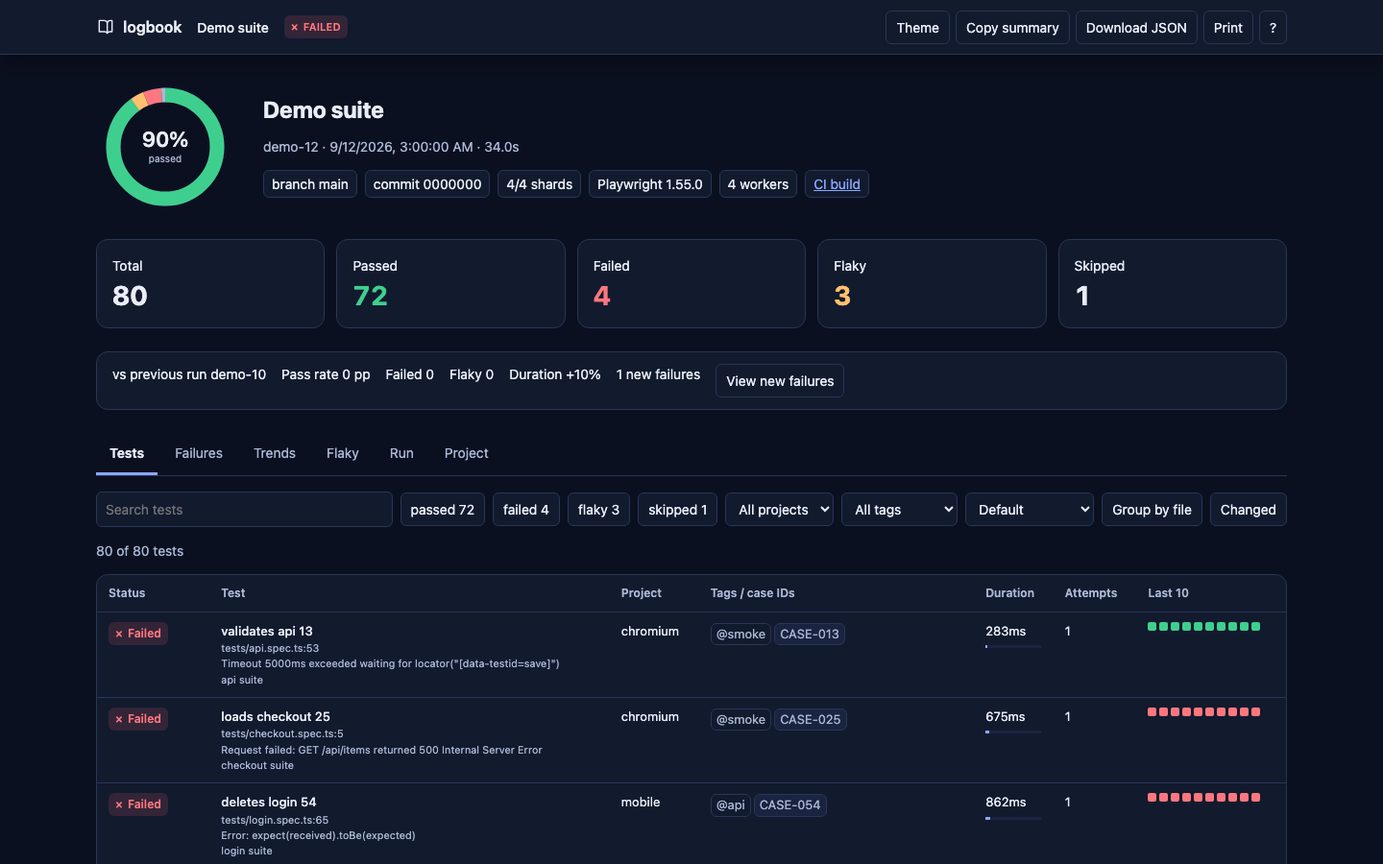
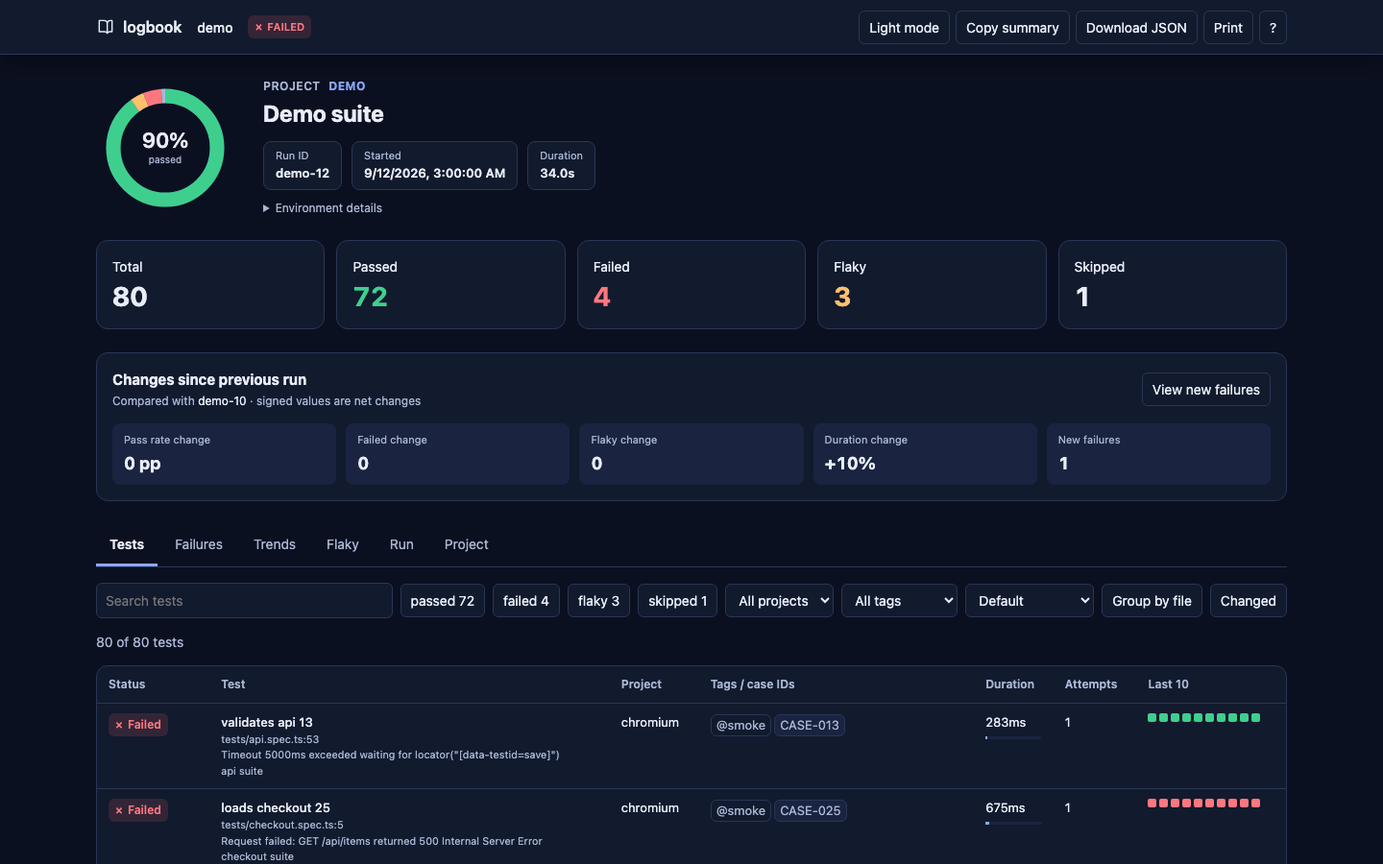
fix(report): clarify overview and pagination UX

diff --git a/src/template/css.ts b/src/template/css.ts
@@ -1,7 +1,6 @@
 import { tokensToCss } from './tokens.js';
 
 export const REPORT_CSS = `:root{${tokensToCss('light')}font-family:system-ui,-apple-system,"Segoe UI",Roboto,Arial,sans-serif;color-scheme:light}
-@media(prefers-color-scheme:dark){:root:not([data-theme="light"]){${tokensToCss('dark')}color-scheme:dark}}
 :root[data-theme="dark"]{${tokensToCss('dark')}color-scheme:dark}
 :root[data-theme="light"]{${tokensToCss('light')}color-scheme:light}
 *{box-sizing:border-box}body{margin:0;background:var(--bg);color:var(--text);font-size:14px;line-height:1.5}button,input,select{font:inherit}button{cursor:pointer}a{color:var(--accent)}:focus-visible{outline:2px solid var(--accent);outline-offset:2px}.skip-link{position:absolute;top:-80px;left:12px;z-index:30;background:var(--surface);padding:8px}.skip-link:focus{top:12px}.topbar{position:sticky;top:0;z-index:20;background:var(--surface);border-bottom:1px solid var(--border);box-shadow:var(--shadow)}.topbar-inner{max-width:1280px;margin:auto;padding:8px 20px;display:flex;align-items:center;gap:16px;min-height:56px}.wordmark{display:flex;align-items:center;gap:8px;font-size:16px;font-weight:600;color:var(--text);text-decoration:none}.wordmark svg,.icon{width:20px;height:20px;fill:none;stroke:currentColor;stroke-width:1.7;stroke-linecap:round;stroke-linejoin:round}.topbar-title{min-width:0;overflow:hidden;text-overflow:ellipsis;white-space:nowrap;font-weight:500}.topbar-actions{margin-left:auto;display:flex;gap:6px}.button,.topbar-actions button,.chip-button{border:1px solid var(--border);background:var(--surface);color:var(--text);border-radius:6px;padding:6px 10px;display:inline-flex;align-items:center;gap:5px}.button:hover,.topbar-actions button:hover,.chip-button:hover{background:var(--surface-2)}.container{max-width:1280px;margin:auto;padding:24px 20px 48px}.hero{display:grid;grid-template-columns:150px minmax(0,1fr);gap:24px;align-items:center}.donut{width:144px;height:144px}.donut-track{stroke:var(--border)}.donut-center{font-size:22px;font-weight:600;fill:var(--text)}.donut-label{font-size:10px;fill:var(--muted)}h1{font-size:24px;line-height:1.2;margin:0 0 8px}h2{font-size:20px;margin:0 0 14px}h3{font-size:16px;margin:20px 0 8px}.muted,small{color:var(--muted)}.meta{display:flex;gap:8px;flex-wrap:wrap;margin-top:12px}.meta>*{border:1px solid var(--border);background:var(--surface);border-radius:6px;padding:3px 8px}.cards{display:grid;grid-template-columns:repeat(5,minmax(0,1fr));gap:12px;margin:24px 0}.card{border:1px solid var(--border);border-radius:12px;background:var(--surface);padding:16px;text-align:left;color:var(--text)}.card strong{display:block;font-size:28px;line-height:1.2;margin-top:4px;font-variant-numeric:tabular-nums}.card[data-kind="passed"] strong{color:var(--passed)}.card[data-kind="failed"] strong{color:var(--failed)}.card[data-kind="flaky"] strong{color:var(--flaky)}.delta,.banner,.notice{border:1px solid var(--border);background:var(--surface);border-radius:12px;padding:12px 16px;margin:12px 0}.banner{border-color:var(--flaky);color:var(--text)}.delta{display:flex;gap:16px;flex-wrap:wrap}.delta span{white-space:nowrap}.tabs{display:flex;gap:4px;overflow-x:auto;border-bottom:1px solid var(--border);margin:24px 0 16px}.tabs button{background:none;border:0;border-bottom:3px solid transparent;color:var(--muted);padding:10px 14px;white-space:nowrap}.tabs button[aria-selected="true"]{color:var(--text);border-color:var(--accent);font-weight:600}.panel[hidden]{display:none}.toolbar{display:flex;gap:8px;flex-wrap:wrap;align-items:center;margin:12px 0}.toolbar input,.toolbar select{background:var(--surface);color:var(--text);border:1px solid var(--border);border-radius:6px;padding:7px 9px}.toolbar input{min-width:220px;flex:1}.chip-button[aria-pressed="true"]{border-color:var(--accent);background:var(--surface-2)}.table-wrap{overflow-x:auto;border:1px solid var(--border);border-radius:12px;background:var(--surface)}table{width:100%;border-collapse:collapse}th,td{text-align:left;padding:10px 12px;border-bottom:1px solid var(--border);vertical-align:top}th{font-size:12px;color:var(--muted);font-weight:600}td{font-size:13px}tbody tr:last-child td{border-bottom:0}tr[data-test-id]{cursor:pointer}tr[data-test-id]:hover{background:var(--surface-2)}td strong{display:block;font-weight:500;max-width:620px;overflow:hidden;text-overflow:ellipsis;white-space:nowrap}td small{display:block;max-width:620px;overflow:hidden;text-overflow:ellipsis;white-space:nowrap}.status-chip{display:inline-flex;align-items:center;gap:5px;font-size:12px;font-weight:600;border-radius:6px;padding:3px 7px;white-space:nowrap}.status-chip.passed{color:var(--passed);background:var(--passed-bg)}.status-chip.failed,.status-chip.timedout{color:var(--failed);background:var(--failed-bg)}.status-chip.flaky{color:var(--flaky);background:var(--flaky-bg)}.status-chip.skipped{color:var(--skipped);background:var(--skipped-bg)}.status-chip .mark{font-size:12px}.heat{display:block;height:3px;background:var(--surface-2);border-radius:3px;margin-top:5px}.heat span{display:block;height:100%;background:var(--accent)}.heat.hot span{background:var(--flaky)}.recent{display:flex;gap:3px}.recent span{width:9px;height:9px;border-radius:2px;background:var(--border)}.recent .passed{background:var(--passed)}.recent .failed{background:var(--failed)}.recent .flaky{background:var(--flaky)}.recent .skipped{background:var(--skipped)}.empty{padding:32px;text-align:center;color:var(--muted)}.group-header{background:var(--surface-2);font-weight:600}.section-card{border:1px solid var(--border);background:var(--surface);border-radius:12px;padding:16px;margin:12px 0}.grid-cards{display:grid;grid-template-columns:repeat(auto-fit,minmax(200px,1fr));gap:12px}.panel-backdrop{position:fixed;inset:0;background:var(--shadow);z-index:25}.detail-panel{position:fixed;z-index:26;right:0;top:0;bottom:0;width:min(520px,100vw);overflow:auto;background:var(--surface);border-left:1px solid var(--border);box-shadow:var(--shadow);padding:20px}.detail-panel[hidden],.panel-backdrop[hidden]{display:none}.panel-head{display:flex;align-items:center;gap:8px;position:sticky;top:-20px;background:var(--surface);padding:12px 0;z-index:1}.panel-head h2{margin:0;flex:1}.detail-panel pre{background:var(--code-bg);border:1px solid var(--border);border-radius:6px;padding:12px;overflow:auto;font-family:ui-monospace,Menlo,Consolas,monospace;font-size:12px;white-space:pre-wrap;overflow-wrap:anywhere}.attempts{display:flex;gap:6px;flex-wrap:wrap}.attempts button[aria-pressed="true"]{border-color:var(--accent)}.toast{position:fixed;bottom:20px;left:50%;transform:translateX(-50%);background:var(--text);color:var(--bg);border-radius:6px;padding:8px 14px;z-index:50}.toast[hidden]{display:none}.help-dialog,.lightbox{border:1px solid var(--border);border-radius:12px;background:var(--surface);color:var(--text);max-width:min(600px,95vw);box-shadow:var(--shadow)}.help-dialog::backdrop,.lightbox::backdrop{background:var(--shadow)}.chart{width:100%;height:190px;background:var(--surface);border:1px solid var(--border);border-radius:12px}.chart line,.chart path{stroke:var(--accent);fill:none;stroke-width:2}.chart rect{fill:var(--surface-2)}.chart text{fill:var(--muted);font-size:10px}.timeline{width:100%;min-width:700px;height:auto;min-height:160px}.timeline rect.passed{fill:var(--passed)}.timeline rect.failed{fill:var(--failed)}.timeline rect.flaky{fill:var(--flaky)}footer{color:var(--muted);padding:32px 0}.error-banner{border:1px solid var(--failed);color:var(--failed);padding:12px}.error-banner[hidden]{display:none}button{transition:background 140ms ease-out}svg{overflow:visible}
@@ -10,7 +9,9 @@ export const REPORT_CSS = `:root{${tokensToCss('light')}font-family:system-ui,-a
 .chart .trend-area{fill:var(--passed-bg);stroke:none}.chart .trend-line{fill:none;stroke:var(--accent);stroke-width:2}.chart .trend-dot{fill:var(--accent);stroke:none}.run-strip{display:flex;gap:4px;margin:12px 0}.run-strip span{width:14px;height:14px;border-radius:3px;background:var(--border)}.run-strip .passed{background:var(--passed)}.run-strip .failed{background:var(--failed)}.group-header{cursor:pointer}
 .steps{padding-left:20px}.steps li{padding:5px 0;border-bottom:1px solid var(--border)}.steps li.failed{font-weight:600}
 .tag-chip,.case-chip{display:inline-block;padding:1px 5px;margin:1px 3px 1px 0;border:1px solid var(--border);border-radius:6px;color:var(--muted);white-space:nowrap}.case-chip{background:var(--surface-2)}
+[hidden]{display:none!important}.hero-main{min-width:0}.eyebrow{margin:0 0 5px;color:var(--muted);font-size:12px;font-weight:600;letter-spacing:.04em;text-transform:uppercase}.eyebrow strong{color:var(--accent);font-weight:700;margin-left:5px}.run-facts{display:flex;flex-wrap:wrap;gap:10px;margin:14px 0 0}.run-facts div{min-width:0;max-width:100%;padding:7px 12px;background:var(--surface);border:1px solid var(--border);border-radius:8px}.run-facts dt{color:var(--muted);font-size:11px;line-height:1.25}.run-facts dd{margin:2px 0 0;font-size:13px;font-weight:600;overflow:hidden;text-overflow:ellipsis;white-space:nowrap;max-width:320px}.env-disclosure{margin-top:10px;color:var(--muted);font-size:12px}.env-disclosure summary{cursor:pointer;width:max-content}.env-disclosure summary:hover{color:var(--accent)}.env-disclosure .meta{margin-top:8px}.comparison{border:1px solid var(--border);background:var(--surface);border-radius:12px;padding:16px;margin:0 0 8px}.comparison-head{display:flex;align-items:center;justify-content:space-between;gap:12px}.comparison h2{font-size:15px;margin:0 0 3px}.comparison p{margin:0;color:var(--muted);font-size:12px}.comparison code{font:inherit;color:var(--text)}.comparison-grid{display:grid;grid-template-columns:repeat(5,minmax(0,1fr));gap:10px;margin-top:14px}.comparison-metric{padding:9px 12px;background:var(--surface-2);border-radius:8px;min-width:0}.comparison-metric span{display:block;color:var(--muted);font-size:11px}.comparison-metric strong{display:block;margin-top:2px;font-size:18px;font-variant-numeric:tabular-nums}.comparison-empty{border-style:dashed}.pagination{display:flex;align-items:center;justify-content:space-between;gap:12px;margin-top:12px;padding:12px 14px;background:var(--surface);border:1px solid var(--border);border-radius:8px}.pagination p{margin:0;color:var(--muted);font-size:12px}.card:hover{border-color:var(--accent);box-shadow:0 3px 12px var(--shadow)}.card:active{transform:translateY(1px)}
 @media(max-width:1100px){.topbar-title{display:none}}
-@media(max-width:640px){.container{padding:16px 12px}.topbar-inner{padding:8px 12px}.topbar-actions .optional{display:none}.hero{grid-template-columns:1fr}.donut{width:110px;height:110px}.cards{grid-template-columns:repeat(2,minmax(0,1fr))}.detail-panel{width:100vw;border:0}.toolbar input{min-width:100%}}
+@media(max-width:640px){.container{padding:16px 12px}.topbar-inner{padding:8px 12px}.topbar-actions .optional{display:none}.hero{grid-template-columns:1fr;gap:12px}.donut{width:110px;height:110px}.cards{grid-template-columns:repeat(2,minmax(0,1fr))}.detail-panel{width:100vw;border:0}.toolbar input{min-width:100%}.run-facts{gap:6px}.run-facts div{flex:1 1 135px}.run-facts dd{max-width:100%}.comparison-grid{grid-template-columns:repeat(2,minmax(0,1fr))}.comparison-head{align-items:flex-start;flex-direction:column}.pagination{flex-direction:column;align-items:stretch}}
+@media(max-width:640px){.run-facts div{flex:1 1 100%}}
 @media(prefers-reduced-motion:reduce){*,*::before,*::after{transition:none!important;animation:none!important}}
-@media print{:root{${tokensToCss('light')}color-scheme:light}body{background:var(--surface)}.topbar-actions,.tabs,.toolbar,.button,.chip-button,.panel-head button,.toast,.skip-link{display:none!important}.panel[hidden]{display:block}.detail-panel{position:static;width:auto;box-shadow:none;border:0}.panel-backdrop{display:none}.container{max-width:none}.section-card,tr{break-inside:avoid}a{color:var(--text)}}`;
+@media print{:root{${tokensToCss('light')}color-scheme:light}body{background:var(--surface)}.topbar-actions,.tabs,.toolbar,.button,.chip-button,.panel-head button,.toast,.skip-link{display:none!important}.panel[hidden]{display:block!important}.detail-panel{position:static;width:auto;box-shadow:none;border:0}.panel-backdrop{display:none}.container{max-width:none}.section-card,tr{break-inside:avoid}a{color:var(--text)}}`;

diff --git a/src/render.ts b/src/render.ts
@@ -23,6 +23,15 @@ function donut(model: ReportModel): string {
   return `<svg class="donut" viewBox="0 0 144 144" role="img" aria-label="${escapeHtml(rate)} passed"><circle class="donut-track" cx="72" cy="72" r="54" fill="none" stroke-width="15"/>${arcs}<text class="donut-center" x="72" y="72" text-anchor="middle">${rate}</text><text class="donut-label" x="72" y="88" text-anchor="middle">passed</text></svg>`;
 }
 
+function comparison(model: ReportModel): string {
+  const delta = model.delta;
+  if (!delta) return '<section class="comparison comparison-empty" aria-label="Run comparison"><div><h2>Run comparison</h2><p>No earlier run to compare yet. Changes will appear here after the next run.</p></div></section>';
+  const signed = (value: number, suffix = ''): string => `${value > 0 ? '+' : ''}${value}${suffix}`;
+  const metric = (label: string, value: string): string => `<div class="comparison-metric"><span>${label}</span><strong>${escapeHtml(value)}</strong></div>`;
+  const newFailures = model.comparison?.newFailures.length ?? 0;
+  return `<section class="comparison" aria-label="Changes since previous run"><div class="comparison-head"><div><h2>Changes since previous run</h2><p>Compared with <code>${escapeHtml(delta.previousRunId)}</code> · signed values are net changes</p></div>${newFailures ? '<button id="lb-new-failures" class="button" type="button">View new failures</button>' : ''}</div><div class="comparison-grid">${metric('Pass rate change', delta.passRatePp === null ? '—' : signed(delta.passRatePp, ' pp'))}${metric('Failed change', signed(delta.failed))}${metric('Flaky change', signed(delta.flaky))}${metric('Duration change', delta.durationPct === null ? '—' : signed(delta.durationPct, '%'))}${metric('New failures', String(newFailures))}</div></section>`;
+}
+
 /** Render a self-contained, offline HTML report. */
 export function renderReport(model: ReportModel, options: { title?: string; reportDir?: string } = {}): string {
   const run = model.run;
@@ -33,10 +42,10 @@ export function renderReport(model: ReportModel, options: { title?: string; repo
   const panels = tabs.map((tab) => `<section class="panel" id="tab-${tab}" role="tabpanel" hidden></section>`).join('');
   const missing = Array.from({ length: run.expectedShards ?? 1 }, (_, index) => index + 1).filter((number) => !run.receivedShards.includes(number));
   const banner = run.complete ? '' : `<p class="banner">INCOMPLETE run · missing shards ${missing.join(', ')}</p>`;
-  const meta = [run.env.git.branch && `branch ${run.env.git.branch}`, run.env.git.commit && `commit ${run.env.git.commit.slice(0, 7)}`, run.env.git.prNumber && `PR #${run.env.git.prNumber}`, `${run.receivedShards.length}/${run.expectedShards ?? 1} shards`, `Playwright ${run.env.playwrightVersion}`, `${run.env.workers} workers`].filter(Boolean).map((item) => `<span>${escapeHtml(String(item))}</span>`).join('');
+  const projectName = run.project.name || 'Unnamed project';
+  const meta = [run.env.git.branch && `Branch: ${run.env.git.branch}`, run.env.git.commit && `Commit: ${run.env.git.commit.slice(0, 7)}`, run.env.git.prNumber && `PR #${run.env.git.prNumber}`, `Shards: ${run.receivedShards.length}/${run.expectedShards ?? 1}`, `Playwright: ${run.env.playwrightVersion}`, `Workers: ${run.env.workers}`].filter(Boolean).map((item) => `<span>${escapeHtml(String(item))}</span>`).join('');
   const buildUrl = run.env.ci?.buildUrl;
   const buildLink = buildUrl && /^https?:\/\//i.test(buildUrl) && safeHref(buildUrl) ? `<a href="${escapeHtml(buildUrl)}" rel="noopener noreferrer">CI build</a>` : '';
-  const delta = model.delta ? `<span>vs previous run ${escapeHtml(model.delta.previousRunId)}</span><span>Pass rate ${model.delta.passRatePp === null ? '—' : `${model.delta.passRatePp > 0 ? '+' : ''}${model.delta.passRatePp} pp`}</span><span>Failed ${model.delta.failed > 0 ? '+' : ''}${model.delta.failed}</span><span>Flaky ${model.delta.flaky > 0 ? '+' : ''}${model.delta.flaky}</span><span>Duration ${model.delta.durationPct === null ? '—' : `${model.delta.durationPct > 0 ? '+' : ''}${model.delta.durationPct}%`}</span><span>${model.comparison?.newFailures.length ?? 0} new failures</span>` : 'First recorded run';
   const footer = `${model.generatedAt ? `Generated ${escapeHtml(model.generatedAt)} · ` : ''}playwright-logbook v${escapeHtml(model.generator?.version ?? '0.1.0')} · Press ? for shortcuts`;
-  return `<!doctype html><html lang="en"><head><meta charset="utf-8"><meta name="viewport" content="width=device-width,initial-scale=1"><title>${escapeHtml(title)}</title><style>${buildStyles()}</style></head><body><a class="skip-link" href="#tab-tests">Skip to results</a><div class="topbar"><div class="topbar-inner"><span class="wordmark">▤ logbook</span><span class="topbar-title">${escapeHtml(title)}</span><span class="status-chip ${run.status === 'passed' ? 'passed' : 'failed'}">${escapeHtml(run.status.toUpperCase())}</span><div class="topbar-actions"><button id="lb-theme" type="button">Theme</button><button id="lb-copy-summary" class="optional" type="button">Copy summary</button><button id="lb-download" class="optional" type="button">Download JSON</button><button id="lb-print" class="optional" type="button">Print</button><button id="lb-help" type="button" aria-label="Help">?</button></div></div></div><main class="container"><header id="lb-header" class="hero">${donut(model)}<div><h1>${escapeHtml(title)}</h1><p class="muted">${escapeHtml(run.runId)} · <time datetime="${escapeHtml(run.startedAt)}" title="${escapeHtml(run.startedAt)}">${escapeHtml(run.startedAt)}</time> · ${formatDuration(run.durationMs)}</p><div class="meta">${meta}${buildLink}</div></div></header>${banner}<div id="lb-cards" class="cards">${cards}</div><div class="delta">${delta}</div><p id="lb-error" class="error-banner" hidden></p><nav class="tabs" role="tablist" aria-label="Report sections">${tabButtons}</nav>${panels}<footer>${footer}</footer></main><div id="lb-backdrop" class="panel-backdrop" hidden></div><aside id="lb-panel" class="detail-panel" aria-label="Test details" hidden><div class="panel-head"><h2 id="lb-panel-heading" tabindex="-1"></h2><button id="lb-panel-close" type="button" aria-label="Close details">Close</button></div><div id="lb-panel-content"></div></aside><div id="lb-toast" class="toast" role="status" aria-live="polite" hidden></div><dialog id="lb-help-dialog" class="help-dialog"></dialog><dialog id="lb-lightbox" class="lightbox"></dialog><noscript>Enable JavaScript to explore tests and report details.</noscript><script type="application/json" id="lb-data">${safeJson(model)}</script><script type="application/json" id="lb-links">${safeJson(attachmentLinks(model, reportDir))}</script><script>${buildClientScript()}</script></body></html>`;
+  return `<!doctype html><html lang="en"><head><meta charset="utf-8"><meta name="viewport" content="width=device-width,initial-scale=1"><title>${escapeHtml(title)}</title><style>${buildStyles()}</style></head><body><a class="skip-link" href="#tab-tests">Skip to results</a><div class="topbar"><div class="topbar-inner"><span class="wordmark">▤ logbook</span><span class="topbar-title">${escapeHtml(projectName)}</span><span class="status-chip ${run.status === 'passed' ? 'passed' : 'failed'}">${escapeHtml(run.status.toUpperCase())}</span><div class="topbar-actions"><button id="lb-theme" type="button">Dark mode</button><button id="lb-copy-summary" class="optional" type="button">Copy summary</button><button id="lb-download" class="optional" type="button">Download JSON</button><button id="lb-print" class="optional" type="button">Print</button><button id="lb-help" type="button" aria-label="Help">?</button></div></div></div><main class="container"><header id="lb-header" class="hero">${donut(model)}<div class="hero-main"><p class="eyebrow">Project <strong>${escapeHtml(projectName)}</strong></p><h1>${escapeHtml(title)}</h1><dl class="run-facts"><div><dt>Run ID</dt><dd title="${escapeHtml(run.runId)}">${escapeHtml(run.runId)}</dd></div><div><dt>Started</dt><dd><time datetime="${escapeHtml(run.startedAt)}" title="${escapeHtml(run.startedAt)}">${escapeHtml(run.startedAt)}</time></dd></div><div><dt>Duration</dt><dd>${formatDuration(run.durationMs)}</dd></div></dl><details class="env-disclosure"><summary>Environment details</summary><div class="meta">${meta}${buildLink}</div></details></div></header>${banner}<div id="lb-cards" class="cards">${cards}</div>${comparison(model)}<p id="lb-error" class="error-banner" hidden></p><nav class="tabs" role="tablist" aria-label="Report sections">${tabButtons}</nav>${panels}<footer>${footer}</footer></main><div id="lb-backdrop" class="panel-backdrop" hidden></div><aside id="lb-panel" class="detail-panel" aria-label="Test details" hidden><div class="panel-head"><h2 id="lb-panel-heading" tabindex="-1"></h2><button id="lb-panel-close" type="button" aria-label="Close details">Close</button></div><div id="lb-panel-content"></div></aside><div id="lb-toast" class="toast" role="status" aria-live="polite" hidden></div><dialog id="lb-help-dialog" class="help-dialog"></dialog><dialog id="lb-lightbox" class="lightbox"></dialog><noscript>Enable JavaScript to explore tests and report details.</noscript><script type="application/json" id="lb-data">${safeJson(model)}</script><script type="application/json" id="lb-links">${safeJson(attachmentLinks(model, reportDir))}</script><script>${buildClientScript()}</script></body></html>`;
 }

diff --git a/src/template/js/tests.ts b/src/template/js/tests.ts
@@ -1,4 +1,22 @@
 export const TESTS_JS = `
 let testsReady=false,showCount=200,searchTimer=0;
 function renderTests(){const panel=document.getElementById('tab-tests');if(!testsReady){testsReady=true;const toolbar=h('div',{class:'toolbar'});const search=h('input',{id:'lb-search',type:'search','aria-label':'Search tests',placeholder:'Search tests'});search.value=state.q;search.addEventListener('input',()=>{clearTimeout(searchTimer);searchTimer=setTimeout(()=>setState({q:search.value}),120)});toolbar.appendChild(search);const counts={passed:0,failed:0,flaky:0,skipped:0};for(const test of allTests){const kind=statusKind(test);counts[kind==='timedout'?'failed':kind]++}for(const kind of ['passed','failed','flaky','skipped']){const button=h('button',{class:'chip-button','data-status':kind,type:'button'},kind+' '+counts[kind]);button.addEventListener('click',()=>setState({status:state.status.includes(kind)?state.status.filter(item=>item!==kind):[...state.status,kind]}));toolbar.appendChild(button)}const project=h('select',{id:'lb-project','aria-label':'Filter project'},h('option',{value:'',text:'All projects'}));for(const name of [...new Set(allTests.map(test=>test.project))].sort())project.appendChild(h('option',{value:name,text:name||'(default)'}));project.addEventListener('change',()=>setState({project:project.value}));toolbar.appendChild(project);const tag=h('select',{id:'lb-tag','aria-label':'Filter tag'},h('option',{value:'',text:'All tags'}));for(const name of [...new Set(allTests.flatMap(test=>test.tags))].sort())tag.appendChild(h('option',{value:name,text:name}));tag.addEventListener('change',()=>setState({tag:tag.value}));toolbar.appendChild(tag);const sort=h('select',{id:'lb-sort','aria-label':'Sort tests'});for(const [value,label] of [['default','Default'],['slowest','Slowest'],['fastest','Fastest'],['title','Title'],['attempts','Most attempts'],['severity','Severity']])sort.appendChild(h('option',{value,text:label}));sort.addEventListener('change',()=>setState({sort:sort.value}));toolbar.appendChild(sort);const group=h('button',{id:'lb-group',class:'chip-button',type:'button',text:'Group by file'});group.addEventListener('click',()=>setState({group:state.group==='file'?'none':'file'}));toolbar.appendChild(group);if(model.comparison){const changed=h('button',{id:'lb-changed',class:'chip-button',type:'button',text:'Changed'});changed.addEventListener('click',()=>setState({changed:!state.changed}));toolbar.appendChild(changed)}panel.appendChild(toolbar);panel.appendChild(h('p',{id:'lb-result-count',class:'muted'}));panel.appendChild(h('div',{class:'table-wrap'},h('table',{},h('thead',{},h('tr',{},['Status','Test','Project','Tags / case IDs','Duration','Attempts','Last 10'].map(item=>h('th',{text:item})))),h('tbody',{id:'lb-tests-body'}))));panel.appendChild(h('button',{id:'lb-more',class:'button',type:'button',text:'Show 200 more'}));document.getElementById('lb-more').addEventListener('click',()=>{showCount+=200;renderTests()})}const search=document.getElementById('lb-search');if(document.activeElement!==search)search.value=state.q;document.getElementById('lb-project').value=state.project;document.getElementById('lb-tag').value=state.tag;document.getElementById('lb-sort').value=state.sort;document.getElementById('lb-group').setAttribute('aria-pressed',String(state.group==='file'));document.getElementById('lb-changed')?.setAttribute('aria-pressed',String(state.changed));for(const button of panel.querySelectorAll('[data-status]'))button.setAttribute('aria-pressed',String(state.status.includes(button.dataset.status)));const changedIds=model.comparison?[...model.comparison.newFailures,...model.comparison.fixed,...model.comparison.newTests].map(item=>item.testId):[];visibleRows=sortTests(filterTests(allTests,state,{changedIds}),state.sort);document.getElementById('lb-result-count').textContent=visibleRows.length+' of '+allTests.length+' tests';const body=document.getElementById('lb-tests-body');clear(body);const max=Math.max(1,...allTests.map(test=>test.durationMs));const durations=allTests.map(test=>test.durationMs).sort((a,b)=>a-b);const p90=durations[Math.floor(durations.length*.9)]||0;const shown=visibleRows.slice(0,showCount);if(!shown.length)body.appendChild(h('tr',{},h('td',{colspan:'7',class:'empty',text:'No tests match these filters.'})));let lastFile='';for(const test of shown){if(state.group==='file'&&test.file!==lastFile){lastFile=test.file;body.appendChild(h('tr',{class:'group-header'},h('td',{colspan:'7',text:test.file+' · '+visibleRows.filter(item=>item.file===test.file).length+' tests'})))}const kind=statusKind(test);const name=h('td',{},h('strong',{text:test.title,title:test.title}),h('small',{text:test.file+':'+test.line}),test.firstError?h('small',{text:test.firstError.message.split('\\n')[0]}):null);const tags=h('td',{},test.tags.slice(0,3).join(' '),test.tags.length>3?' +'+(test.tags.length-3):'',h('small',{text:test.caseIds.join(' ')}));const heat=heatLevel(test.durationMs,max,p90);const duration=h('td',{},formatDuration(test.durationMs),h('span',{class:'heat'+(heat.hot?' hot':'')},h('span',{style:'width:'+heat.percent+'%'})));const row=h('tr',{'data-test-id':test.testId,tabindex:'0'},h('td',{},chip(kind)),name,h('td',{text:test.project||'(default)'}),tags,duration,h('td',{text:test.attemptCount}),h('td',{},recentStrip(model.recent?.[test.testId])));row.addEventListener('click',()=>openTest(test.testId,row));body.appendChild(row)}const more=document.getElementById('lb-more');more.hidden=visibleRows.length<=showCount;more.textContent='Show 200 more ('+(visibleRows.length-showCount)+' left)'}
+function renderPagination(){
+  const panel=document.getElementById('tab-tests'),more=document.getElementById('lb-more');
+  let footer=document.getElementById('lb-pagination');
+  if(!footer){
+    footer=h('div',{id:'lb-pagination',class:'pagination'});
+    footer.appendChild(h('p',{id:'lb-pagination-note','aria-live':'polite'}));
+    footer.appendChild(more);
+    panel.appendChild(footer);
+    more.addEventListener('click',renderPagination);
+  }
+  const shown=Math.min(showCount,visibleRows.length),remaining=visibleRows.length-shown;
+  footer.hidden=remaining<=0;
+  more.hidden=remaining<=0;
+  if(remaining>0){
+    document.getElementById('lb-pagination-note').textContent='Showing '+shown+' of '+visibleRows.length+' matching tests. Rows load in batches to keep this report responsive.';
+    more.textContent='Show next '+Math.min(200,remaining)+' tests';
+  }
+}
 `;

diff --git a/src/template/js/core.ts b/src/template/js/core.ts
@@ -18,9 +18,9 @@ function setState(patch){state={...state,...patch};const hash=buildHash(state);i
 function validateState(){if(state.project&&!allTests.some(test=>test.project===state.project))state.project='';if(state.tag&&!allTests.some(test=>test.tags.includes(state.tag)))state.tag='';if(state.test&&!byId.has(state.test))state.test='';if(state.test&&state.attempt>=byId.get(state.test).attempts.length)state.attempt=0}
 function toast(message){const el=document.getElementById('lb-toast');el.textContent=message;el.hidden=false;clearTimeout(toastTimer);toastTimer=setTimeout(()=>{el.hidden=true},2300)}
 async function copyText(value){try{await navigator.clipboard.writeText(value);toast('Copied')}catch{const area=h('textarea',{'aria-label':'Copy text'});area.value=value;document.body.appendChild(area);area.select();try{document.execCommand('copy');toast('Copied')}catch{toast('Select and copy the text')}area.remove()}}
-function applyTheme(theme){if(theme==='auto')document.documentElement.removeAttribute('data-theme');else document.documentElement.setAttribute('data-theme',theme);try{localStorage.setItem('logbook-theme',theme)}catch{}}
-function toggleTheme(){const current=document.documentElement.getAttribute('data-theme')||'auto';applyTheme(current==='auto'?'light':current==='light'?'dark':'auto');toast('Theme: '+(document.documentElement.getAttribute('data-theme')||'auto'))}
-function renderAll(){for(const button of tabButtons){const active=button.dataset.tab===state.tab;button.setAttribute('aria-selected',String(active));button.tabIndex=active?0:-1;document.getElementById('tab-'+button.dataset.tab).hidden=!active}if(state.tab==='tests'){renderTests();decorateTestRows();makeGroupsCollapsible()}else if(state.tab==='failures')renderFailures();else if(state.tab==='trends')renderTrends();else if(state.tab==='flaky')renderFlaky();else if(state.tab==='run')renderRun();else renderProject();renderPanel()}
+function applyTheme(theme){document.documentElement.setAttribute('data-theme',theme);const button=document.getElementById('lb-theme');button.textContent=theme==='dark'?'Light mode':'Dark mode';button.setAttribute('aria-label',theme==='dark'?'Switch to light mode':'Switch to dark mode');try{localStorage.setItem('logbook-theme',theme)}catch{}}
+function toggleTheme(){const next=document.documentElement.getAttribute('data-theme')==='dark'?'light':'dark';applyTheme(next);toast(next==='dark'?'Dark mode on':'Light mode on')}
+function renderAll(){for(const button of tabButtons){const active=button.dataset.tab===state.tab;button.setAttribute('aria-selected',String(active));button.tabIndex=active?0:-1;document.getElementById('tab-'+button.dataset.tab).hidden=!active}if(state.tab==='tests'){renderTests();renderPagination();decorateTestRows();makeGroupsCollapsible()}else if(state.tab==='failures')renderFailures();else if(state.tab==='trends')renderTrends();else if(state.tab==='flaky')renderFlaky();else if(state.tab==='run')renderRun();else renderProject();renderPanel()}
 function decorateTestRows(){for(const row of document.querySelectorAll('#lb-tests-body tr[data-test-id]')){
   const test=byId.get(row.dataset.testId),name=row.children[1],tags=row.children[3];
   if(test.titlePath.length>1)name.appendChild(h('small',{text:test.titlePath.slice(0,-1).join(' › ')}));
@@ -53,7 +53,7 @@ function closePanel(){setState({test:'',attempt:0});if(panelReturn&&panelReturn.
 function handleKeys(event){if(event.metaKey||event.ctrlKey||event.altKey||/^(INPUT|TEXTAREA|SELECT)$/.test(event.target.tagName))return;const key=event.key;if(key>='1'&&key<='6'){selectTab(tabs[Number(key)-1],true);return}if(key==='Escape'){if(state.test){closePanel();return}const dialog=document.querySelector('dialog[open]');if(dialog)dialog.close();return}if(key==='t'){toggleTheme();return}if(key==='?'){showHelp();return}if(key==='/'&&state.tab==='tests'){event.preventDefault();document.getElementById('lb-search')?.focus();return}if(key==='['||key===']'){moveFailure(key===']'?1:-1);return}if(state.tab==='tests'&&(key==='j'||key==='k')){const rows=[...document.querySelectorAll('#lb-tests-body tr[data-test-id]')];const at=rows.indexOf(document.activeElement);rows[Math.max(0,Math.min(rows.length-1,at+(key==='j'?1:-1)))]?.focus();return}if((key==='Enter'||key==='o')&&document.activeElement?.dataset?.testId){openTest(document.activeElement.dataset.testId,document.activeElement)}}
 function moveFailure(step){const ids=allTests.filter(test=>test.outcome==='unexpected'||test.outcome==='flaky').map(test=>test.testId);if(!ids.length)return;const at=ids.indexOf(state.test);openTest(ids[(at+step+ids.length)%ids.length])}
 function init(){
-  try{const saved=localStorage.getItem('logbook-theme');if(saved==='light'||saved==='dark')applyTheme(saved)}catch{}
+  let saved='light';try{if(localStorage.getItem('logbook-theme')==='dark')saved='dark'}catch{}applyTheme(saved);
   for(const button of tabButtons){
     button.addEventListener('click',()=>selectTab(button.dataset.tab));
     button.addEventListener('keydown',event=>{if(event.key==='ArrowRight'||event.key==='ArrowLeft'){
@@ -78,7 +78,7 @@ function init(){
   document.getElementById('lb-backdrop').addEventListener('click',closePanel);
   const mark=document.querySelector('.wordmark');mark.textContent='logbook';mark.prepend(icon('book'));
   const topStatus=document.querySelector('.topbar .status-chip');topStatus.prepend(h('span',{class:'mark','aria-hidden':'true',text:model.run.status==='passed'?'✓':'×'}));
-  if(model.comparison){const delta=document.querySelector('.delta');delta.appendChild(h('button',{class:'button',type:'button',onclick:()=>selectTab('failures'),text:'View new failures'}))}
+  document.getElementById('lb-new-failures')?.addEventListener('click',()=>selectTab('failures'));
   window.addEventListener('hashchange',()=>{state=parseHash(location.hash);validateState();renderAll()});
   document.addEventListener('keydown',handleKeys);
   for(const button of document.querySelectorAll('[data-card-kind]'))button.addEventListener('click',()=>setState({tab:'tests',status:button.dataset.cardKind==='total'?[]:[button.dataset.cardKind]}));

diff --git a/e2e/report.spec.ts b/e2e/report.spec.ts
@@ -17,10 +17,14 @@ test('offline report navigation and debugging', async ({ page }) => {
   page.on('console', (message) => { if (message.type() === 'error') errors.push(message.text()); });
   page.on('request', (request) => { if (!request.url().startsWith('file:')) network.push(request.url()); });
   await page.goto(report);
+  await expect(page.locator('html')).toHaveAttribute('data-theme', 'light');
   await expect(page.locator('#lb-header')).toBeVisible();
+  await expect(page.locator('#lb-header .eyebrow')).toContainText('demo');
+  await expect(page.getByRole('region', { name: 'Changes since previous run' })).toBeVisible();
   await expect(page.locator('#lb-cards')).toBeVisible();
   await expect(page.getByRole('tablist', { name: 'Report sections' })).toBeVisible();
   await expect(page.locator('#lb-tests-body tr[data-test-id]')).toHaveCount(80);
+  await expect(page.locator('#lb-pagination')).toBeHidden();
   for (const tab of ['failures', 'trends', 'flaky', 'run', 'project']) {
     await page.locator(`[data-tab="${tab}"]`).click();
     await expect(page.locator(`#tab-${tab}`)).toBeVisible();
@@ -45,6 +49,7 @@ test('offline report navigation and debugging', async ({ page }) => {
   await page.locator('#lb-panel-close').click();
   await page.locator('#lb-theme').click();
   await expect(page.locator('html')).toHaveAttribute('data-theme', /light|dark/);
+  await expect(page.locator('#lb-theme')).toHaveText('Light mode');
   expect(errors).toEqual([]);
   expect(network).toEqual([]);
 });
@@ -67,7 +72,9 @@ test('measures filtering a 10,000-test report', async ({ page }) => {
     const file = path.join(dir, 'index.html');
     await fs.writeFile(file, renderReport(buildReportModel({ run: source, summaries: [] })));
     await page.goto(pathToFileURL(file).href);
-    await expect(page.locator('#lb-tests-body tr[data-test-id]')).toHaveCount(200);
+  await expect(page.locator('#lb-tests-body tr[data-test-id]')).toHaveCount(200);
+  await expect(page.locator('#lb-pagination')).toBeVisible();
+  await expect(page.locator('#lb-more')).toHaveText('Show next 200 tests');
     const milliseconds = await page.evaluate(() => {
       const start = performance.now();
       (document.querySelector('[data-status="passed"]') as HTMLButtonElement).click();
@@ -75,5 +82,8 @@ test('measures filtering a 10,000-test report', async ({ page }) => {
     });
     console.log(`10,000-test browser filter: ${milliseconds.toFixed(1)}ms`);
     await expect(page.locator('#lb-result-count')).toHaveText('10000 of 10000 tests');
+    await page.locator('#lb-more').click();
+    await expect(page.locator('#lb-tests-body tr[data-test-id]')).toHaveCount(400);
+    await expect(page.locator('#lb-pagination-note')).toContainText('Showing 400 of 10000 matching tests');
   } finally { await fs.rm(dir, { recursive: true, force: true }); }
 });

diff --git a/test/render.test.ts b/test/render.test.ts
@@ -20,6 +20,10 @@ describe('renderReport', () => {
     }
     expect(html).toContain('id="lb-header"');
     expect(html).toContain('id="lb-cards"');
+    expect(html).toContain('Project <strong>sample</strong>');
+    expect(html).toContain('<dt>Run ID</dt>');
+    expect(html).toContain('<summary>Environment details</summary>');
+    expect(html).toContain('No earlier run to compare yet');
   });
   it('escapes script-breaking titles and special JSON characters', () => {
     const source = run('hostile');
@@ -73,5 +77,15 @@ describe('renderReport', () => {
     expect(renderReport(data)).toContain('INCOMPLETE');
     expect(renderReport(data)).toBe(renderReport(data));
     expect(renderReport(data)).not.toContain('Generated ');
+  });
+  it('labels changes against the previous run', () => {
+    const data = model();
+    data.delta = { previousRunId: 'earlier-run', passRatePp: 2.5, failed: -1, flaky: 0, durationPct: 10 };
+    const html = renderReport(data);
+    expect(html).toContain('Changes since previous run');
+    expect(html).toContain('Compared with <code>earlier-run</code>');
+    expect(html).toContain('<span>Pass rate change</span><strong>+2.5 pp</strong>');
+    expect(html).toContain('<span>Failed change</span><strong>-1</strong>');
+    expect(html).not.toContain('id="lb-new-failures"');
   });
 });

diff --git a/README.md b/README.md
@@ -8,7 +8,7 @@ Logbook adds a reporter to your existing Playwright suite. After a run, open the
 
 ![Dark report showing run summary and test history](docs/img/report-dark.png)
 
-The report has a searchable test table, status filters, a detail panel with errors and rerun commands, failure groups, trends, flaky history, and project breakdowns. It works from a local file without a server. Use the theme control for light or dark mode; the layout also fits narrow screens.
+The report has a searchable test table, status filters, a detail panel with errors and rerun commands, failure groups, trends, flaky history, and project breakdowns. It works from a local file without a server. Light mode is the default; use the theme control to switch to dark mode. The layout also fits narrow screens.
 
 ![Light report](docs/img/report-light.png)
 
